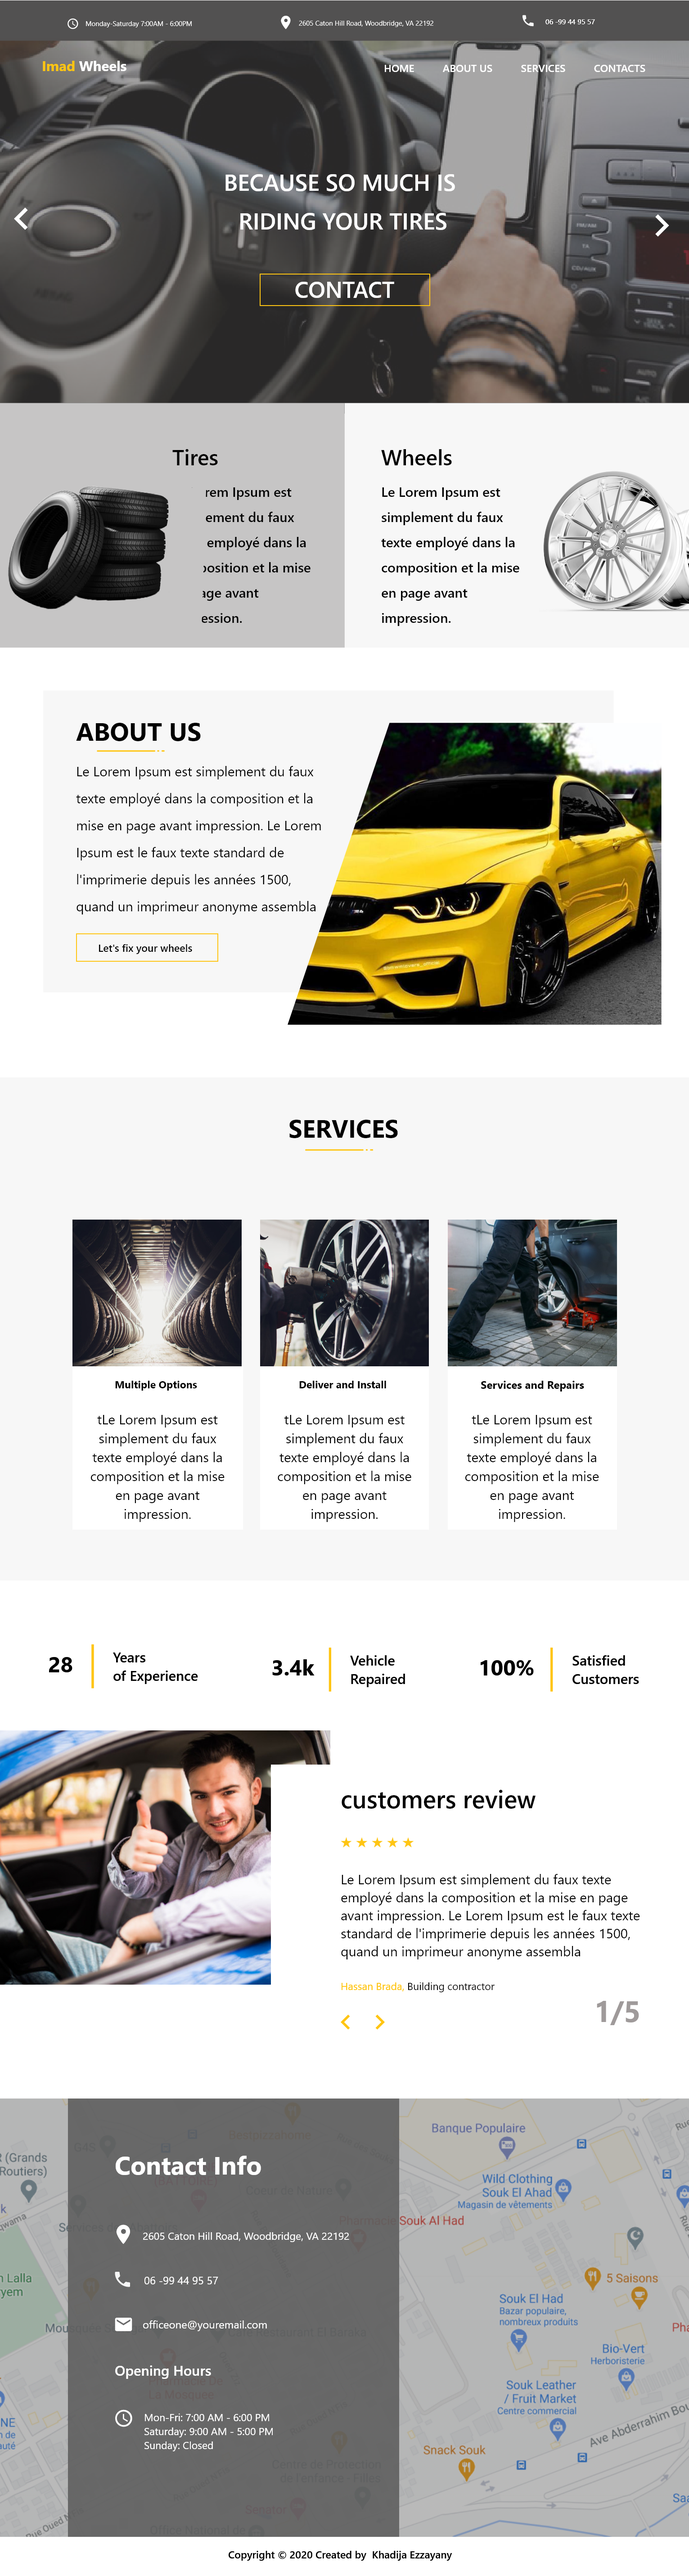
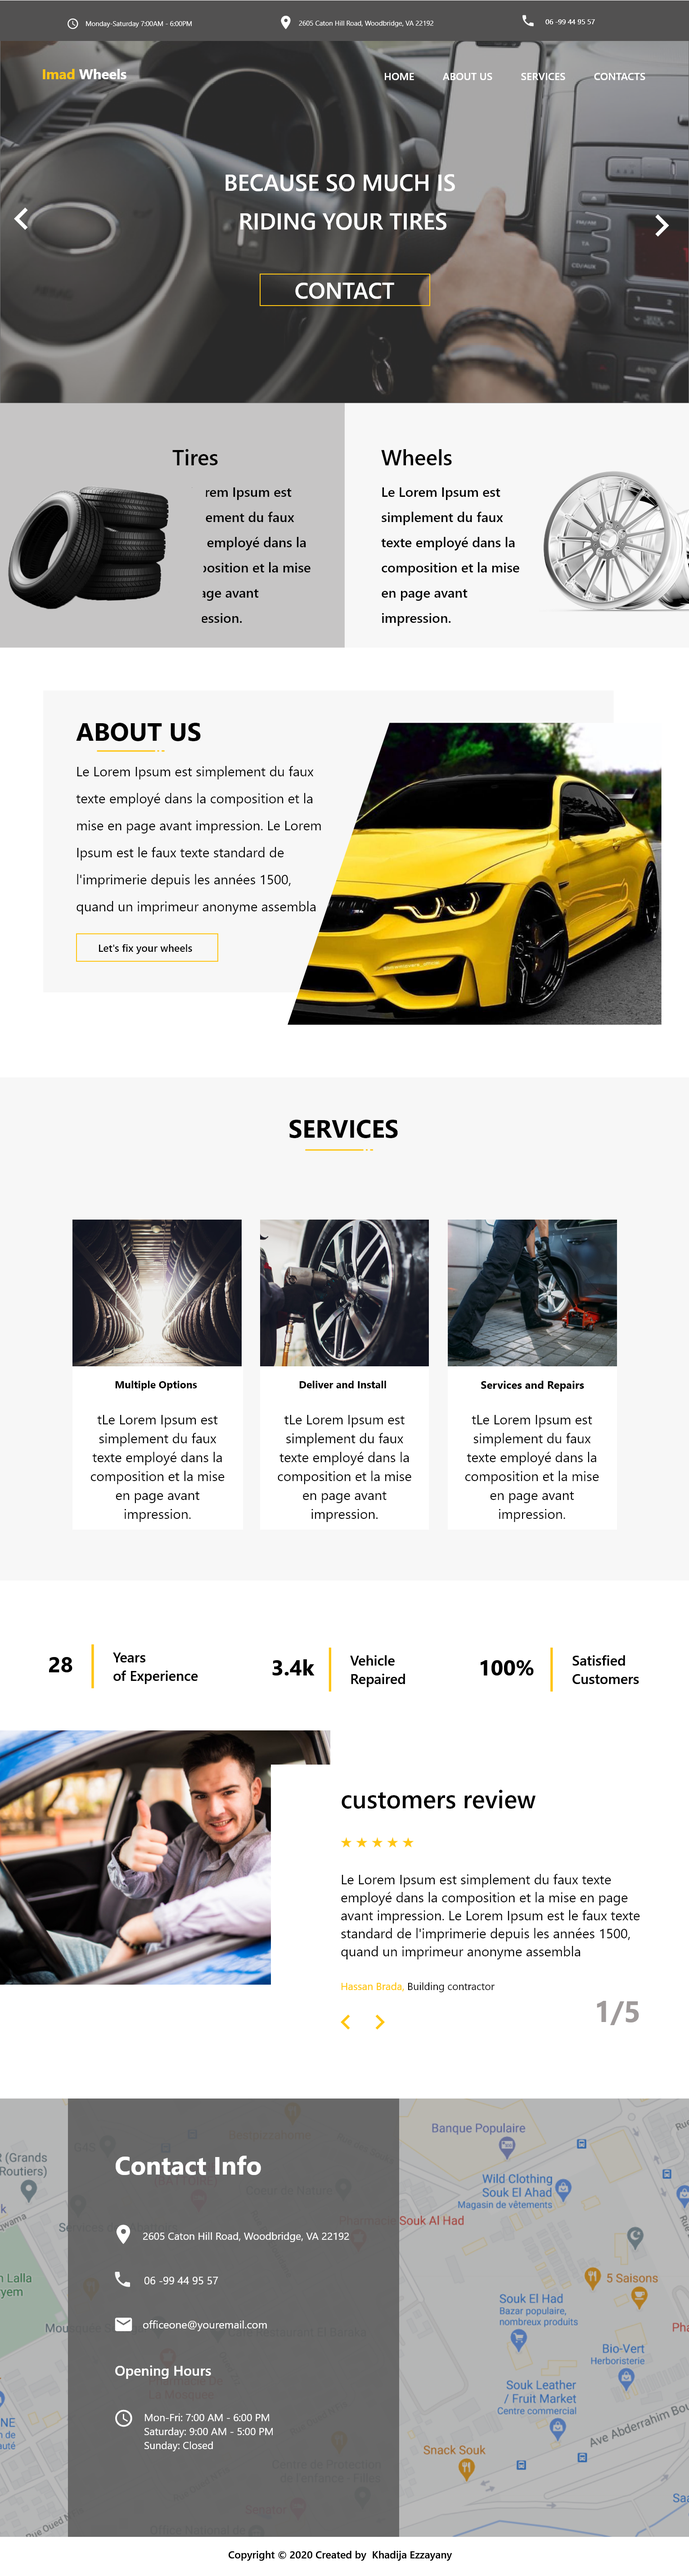
-html

diff --git a/index.php b/index.php
@@ -8,6 +8,105 @@
 </head>
 
 <body>
+    <div class="heronav">
+        <nav>
+            <ul>
+                <li>Monday-Saturday 7:00AM - 6:00PM</li>
+                <li>2605 Hill Road, Woodbridge, VA 22192</li>
+                <li>06 -99 44 95 57</li>
+            </ul>
+        </nav>
+    </div>
+    <div class="header">
+        <div class="header__nav">
+            <p class="header__nav--logo"> Imad <span>Whells</span></p>
+            <ul>
+                <li>HOME</li>
+                <li>ABOUT US</li>
+                <li>SERVICES</li>
+                <li>CONTACTS</li>
+            </ul>
+            <h1 class="header__h1"> </h1>
+            <a href="">CONTACTS</a>
+        </div>
+    </div>
+
+    <div class="sectionwhells">
+
+        <div class="sectionwhells__tires">
+            <img src="dist/img/tires.png" alt="">
+            <p>Lorem ipsum dolor sit amet consectetur adipisicing elit. Perspiciatis velit esse reiciendis quisquam
+                dolores officiis quibusdam pariatur dolor earum est, temporibus voluptate laborum alias at. Odio,
+                accusamus. Amet, debitis ex?</p>
+        </div>
+
+        <div class="sectionwhells__wheels">
+            <img src="dist/img/wheel.png" alt="">
+            <p>Lorem ipsum dolor sit amet consectetur, adipisicing elit. Et error officiis, doloribus explicabo eum sunt
+                alias est esse dolores cum modi eaque magnam ipsam, quidem rem quasi assumenda consequuntur! Quidem.</p>
+        </div>
+    </div>
+    <div class="about">
+        <div class="about__under">
+            <h1>ABOUT US</h1>
+            <p>Lorem, ipsum dolor sit amet consectetur adipisicing elit. Voluptatibus rerum minima atque sint quas ipsa
+                tenetur aliquid quaerat placeat culpa dolores asperiores optio amet doloremque perspiciatis perferendis,
+                labore corrupti ut?</p>
+            <a href="">Let's fix your wheels</a>
+            <img src="dist/img/aboutdes.png" alt="">
+        </div>
+    </div>
+    <div class="service">
+        <div class="service__cart1">
+            <img src="dist/img/service1" alt="">
+            <p>Lorem ipsum, dolor sit amet consectetur adipisicing elit. A, praesentium maxime nobis laborum molestiae,
+                asperiores, in vitae voluptatibus quia doloremque expedita reiciendis sit itaque dolore. Ducimus odit
+                sapiente optio ad!</p>
+        </div>
+        <div class="service__cart2">
+            <img src="dist/img/service2" alt="">
+            <p>Lorem ipsum, dolor sit amet consectetur adipisicing elit. A, praesentium maxime nobis laborum molestiae,
+                asperiores, in vitae voluptatibus quia doloremque expedita reiciendis sit itaque dolore. Ducimus odit
+                sapiente optio ad!</p>
+        </div>
+        <div class="service__cart3">
+            <img src="dist/img/service3" alt="">
+            <p>Lorem ipsum, dolor sit amet consectetur adipisicing elit. A, praesentium maxime nobis laborum molestiae,
+                asperiores, in vitae voluptatibus quia doloremque expedita reiciendis sit itaque dolore. Ducimus odit
+                sapiente optio ad!</p>
+        </div>
+    </div>
+
+    <div class="experience">
+        <p>28 | Year <br> of Experience</p>
+        <p>3.4k | Vehicle <br> Repaired</p>
+        <p>100% | Satisfied <br> Customers</p>
+    </div>
+    <div class="review">
+        <h1>Customers review</h1>
+        <img src="dist/img/star.png" alt="">
+        <p>Lorem ipsum dolor sit, amet consectetur adipisicing elit. Molestiae delectus porro omnis temporibus
+            assumenda! Fugit praesentium nostrum quo. Hic voluptas nulla corrupti voluptates eveniet aperiam, beatae
+            dicta facilis minus culpa?</p>
+        <p> <span> Hassan Barada,</span>Building contractor</p>
+    </div>
+
+    <div class="footer">
+        <h1>Contact Info</h1>
+        <ul>
+            <li>2605 Hill Road, Woodbridge, VA 22192</li>
+            <li>06 -99 44 95 57</li>
+            <li>officeone@youreemail.com</li>
+            <li>
+                <p> Monday- Fri:7:00AM - 6:00PM <br>
+                    Sturday: 9:00 AM - 5:00 PM <br>
+                    Sunday:Closed
+                </p>
+
+            </li>
+
+        </ul>
+    </div>
 
 </body>
 
